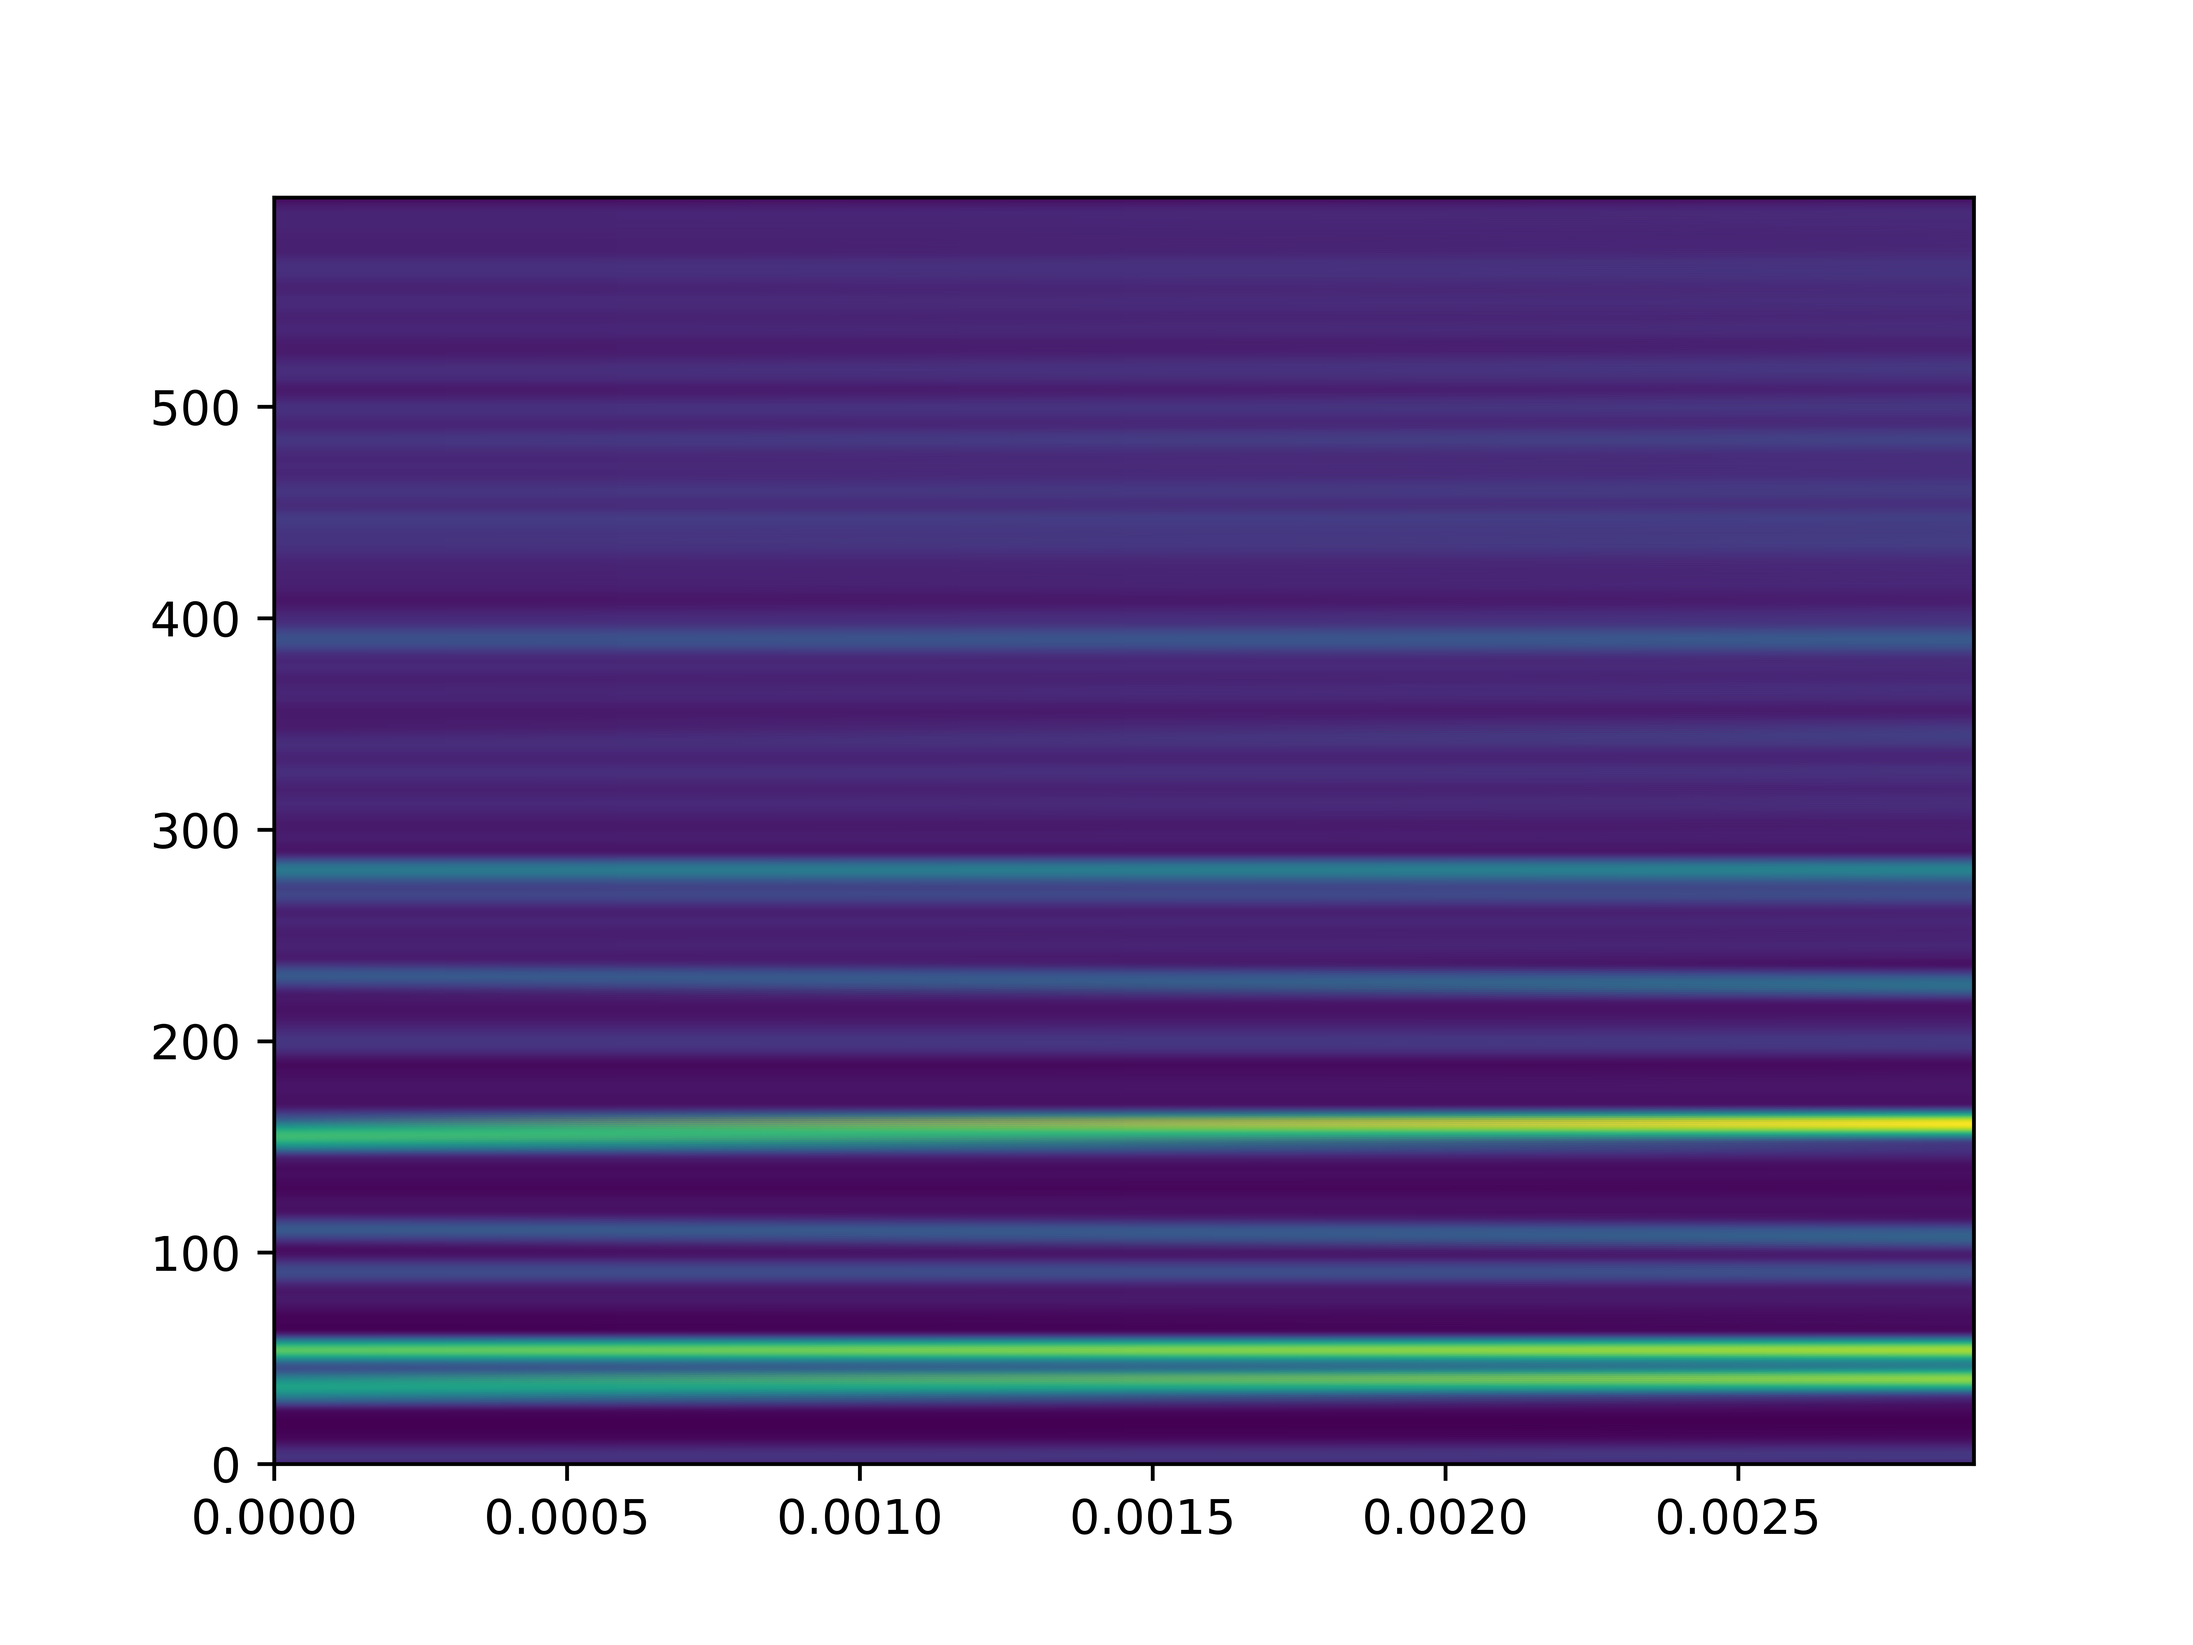
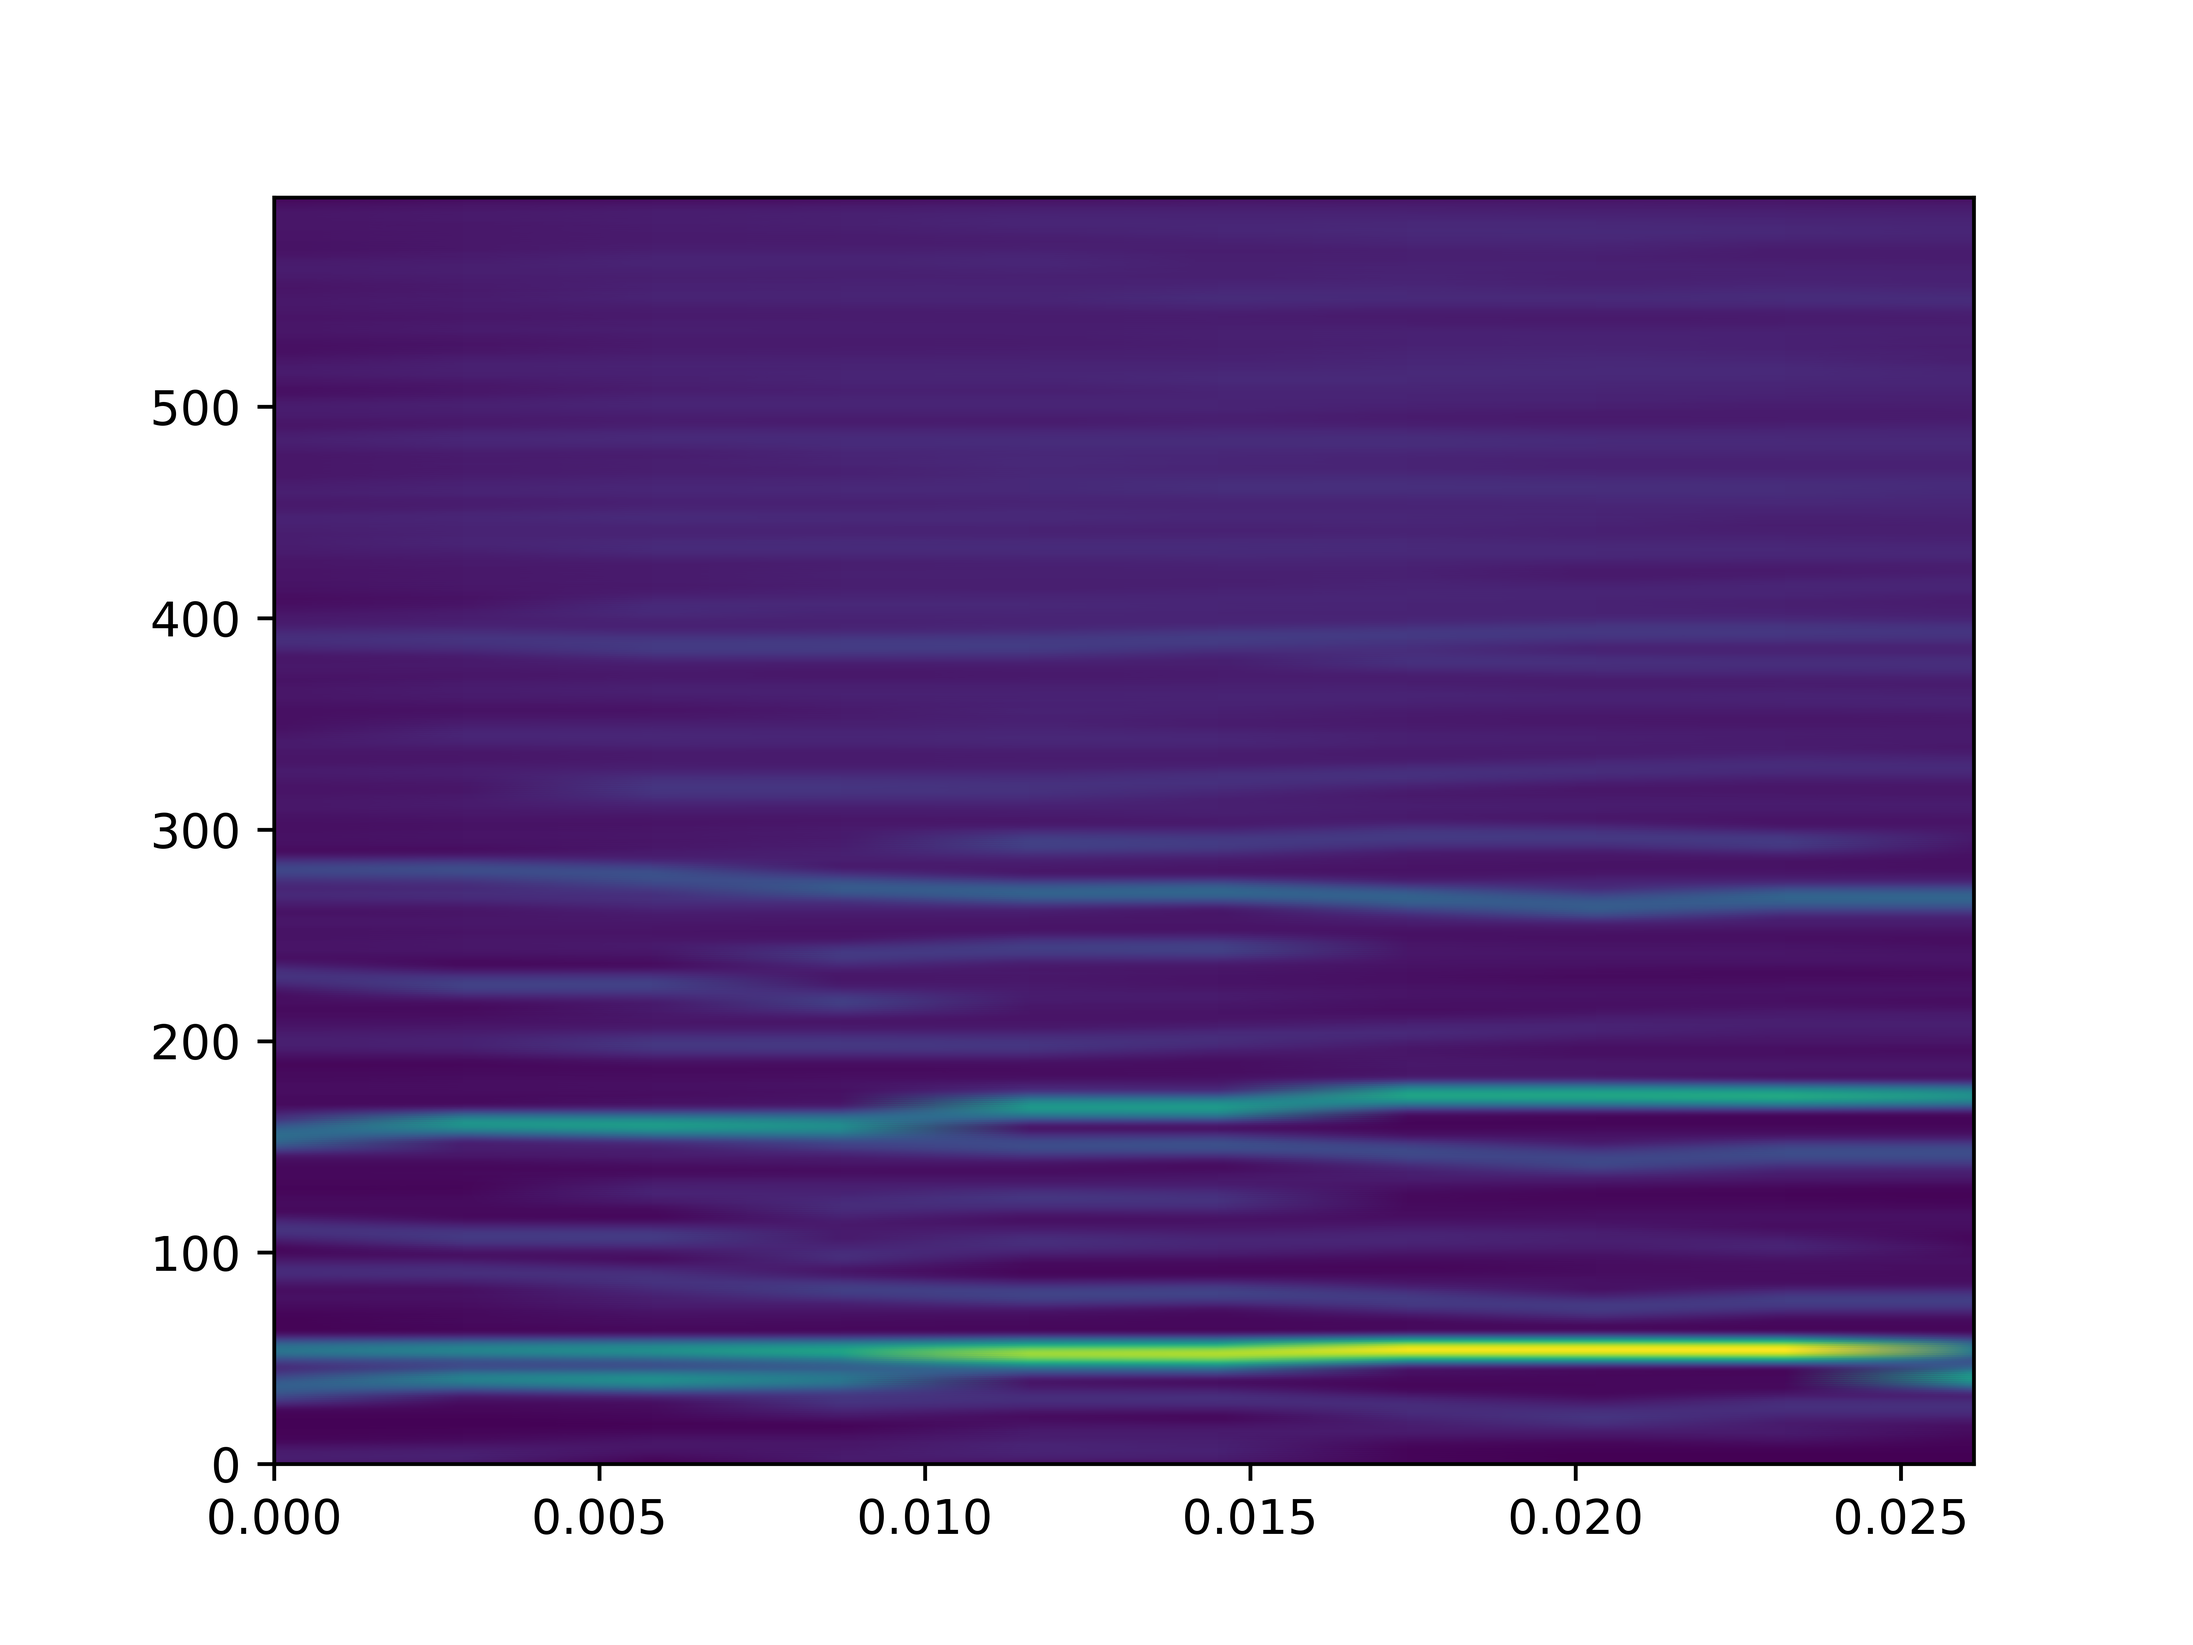
moved to salience

diff --git a/main.py b/main.py
@@ -1,21 +1,8 @@
 import argparse
 
 from sinusoid_extraction import spectral_transform
-from salience import compute_salience
+from salience import compute_saliences
 from utils import load_wav_file, write_wav_file
-import matplotlib.pyplot as plt
-from scipy.signal import find_peaks
-import numpy as np
-
-
-# number of quantization bins for F0 candidates
-n_bins = 600
-
-
-def plot_saliences(t, saliences):
-    bins = np.arange(n_bins)
-    plt.pcolormesh(t, bins, saliences, shading='gouraud')
-    plt.savefig('./output/salience', dpi=1024)
 
 
 def extract_melody(audio, sampling_rate):
@@ -24,22 +11,8 @@ def extract_melody(audio, sampling_rate):
     f, t, zxx = spectral_transform(audio, sampling_rate)
     # TODO: frequency correction
 
-    # take only magnitudes
-    zxx = np.abs(zxx)
-    t_size = 10
-    saliences = np.zeros((n_bins, t_size))
-    for i in range(t_size):
-        print(f'{i+1}/{t_size}')
-        magnitudes = zxx[:, i]
-        # find peaks
-        peak_indices, _ = find_peaks(magnitudes)
-
-        # salience function
-        salience = compute_salience(
-            f[peak_indices], magnitudes[peak_indices])
-        saliences[:, i] = salience
-
-    plot_saliences(t[:t_size], saliences)
+    # compute saliences
+    compute_saliences(f, t, zxx)
 
     # pitch contour creation
     # TODO: peak filtering

diff --git a/salience/salience.py b/salience/salience.py
@@ -1,6 +1,9 @@
 import sys
 import math
 import numpy as np
+import matplotlib.pyplot as plt
+from scipy.signal import find_peaks
+
 
 # number of quantization bins for F0 candidates
 n_bins = 600
@@ -81,3 +84,28 @@ def compute_salience(f, peaks):
         salience[b] = salience_function(b, f, peaks, max_magnitude)
 
     return salience
+
+
+def plot_saliences(t, saliences):
+    bins = np.arange(n_bins)
+    plt.pcolormesh(t, bins, saliences, shading='gouraud')
+    plt.savefig('./output/salience', dpi=1024)
+
+
+def compute_saliences(f, t, zxx):
+    # take only magnitudes
+    zxx = np.abs(zxx)
+    t_size = 100
+    saliences = np.zeros((n_bins, t_size))
+    for i in range(t_size):
+        print(f'{i+1}/{t_size}')
+        magnitudes = zxx[:, i]
+        # find peaks
+        peak_indices, _ = find_peaks(magnitudes)
+
+        # salience function
+        salience = compute_salience(
+            f[peak_indices], magnitudes[peak_indices])
+        saliences[:, i] = salience
+
+    plot_saliences(t[:t_size], saliences)
